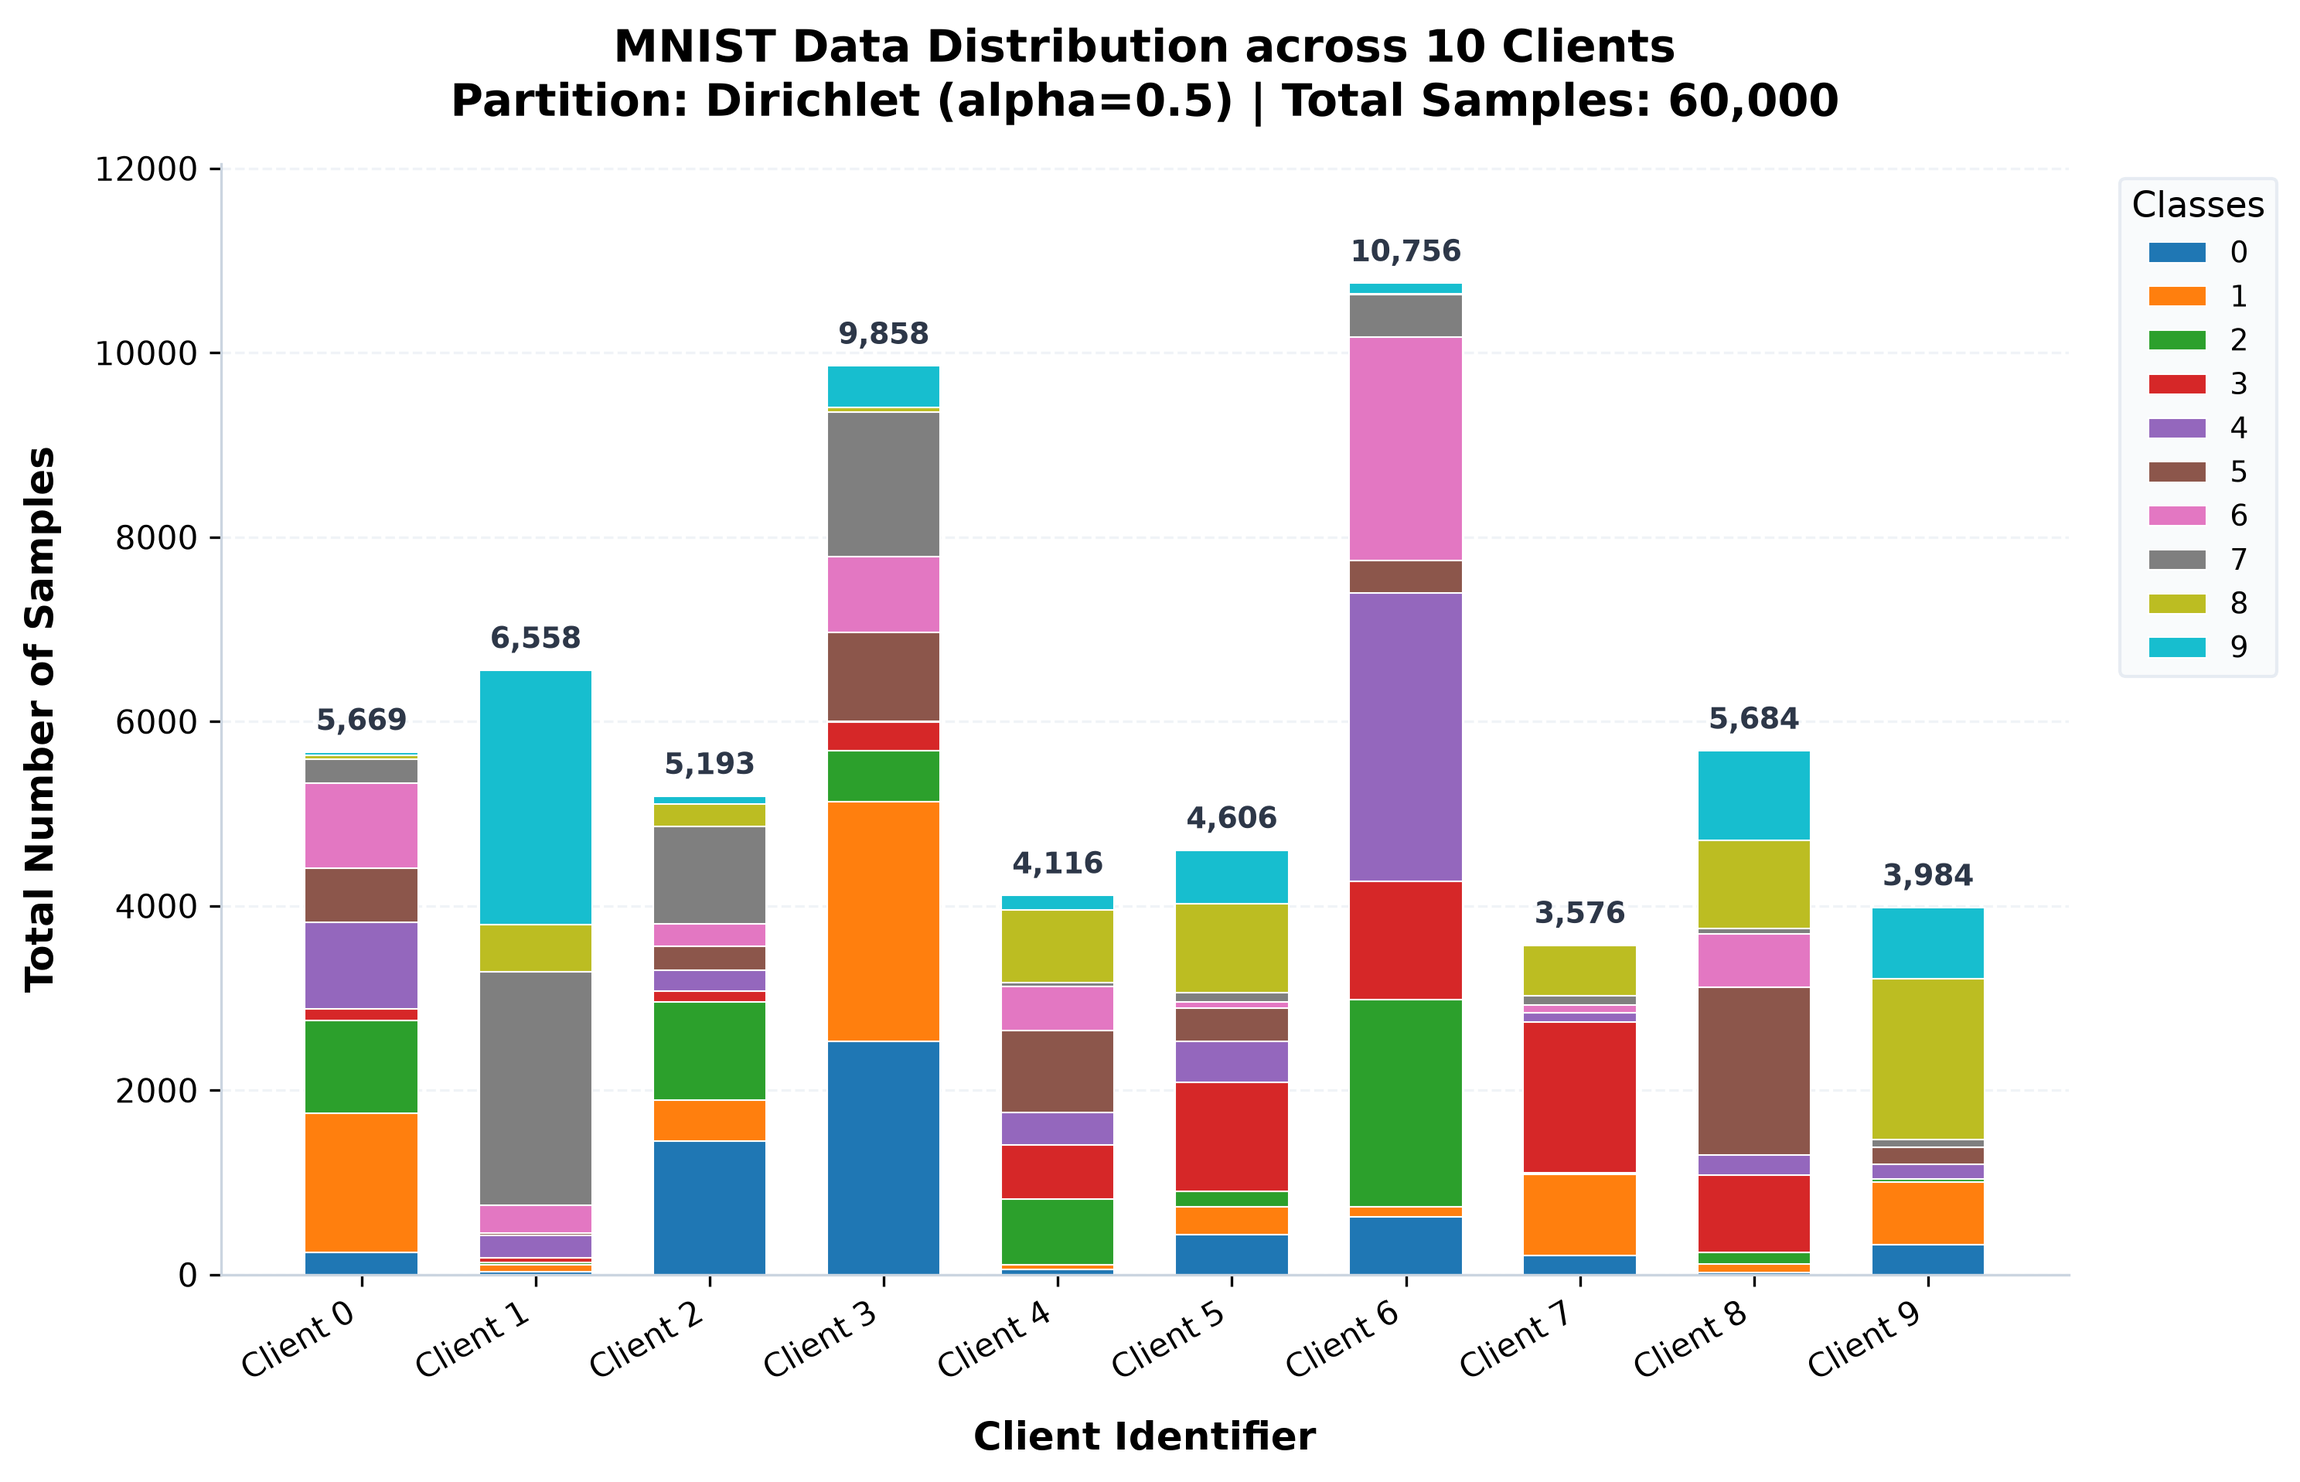
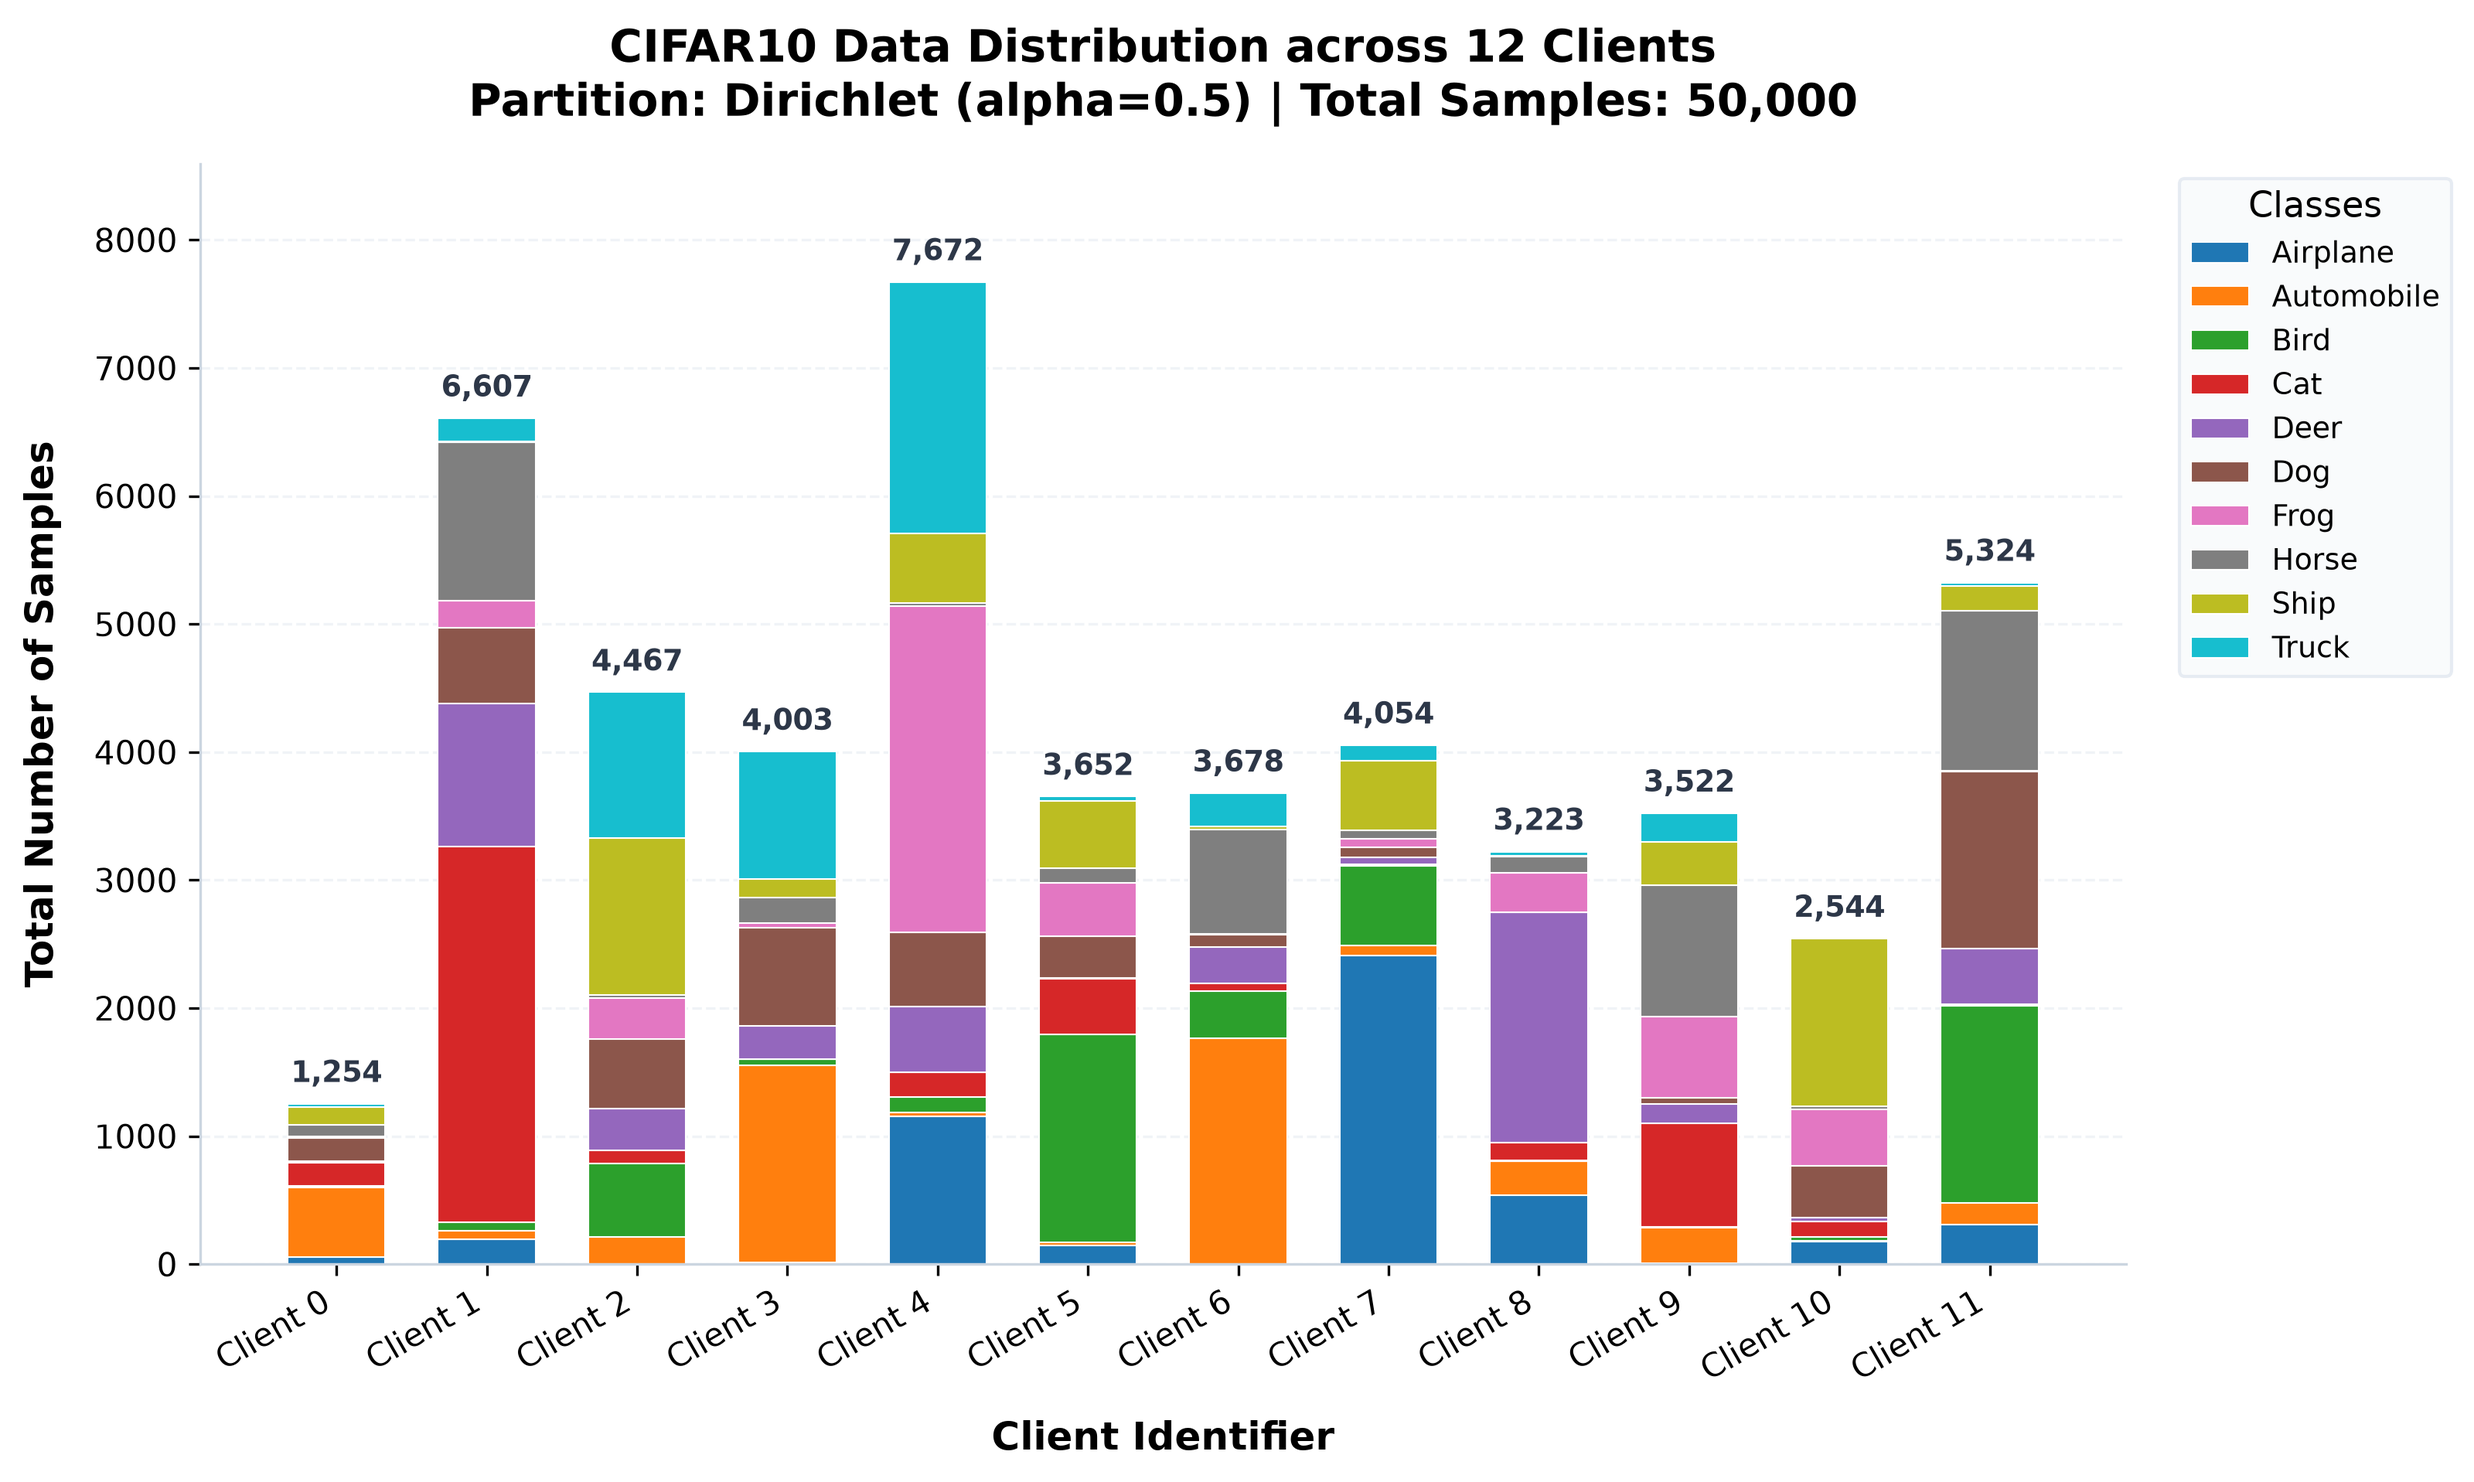
docs: add COMMANDS.md command reference guide and update documentation

diff --git a/COMMANDS.md b/COMMANDS.md
@@ -1,0 +1,140 @@
+# Federated Learning Lab - Command Reference Guide (`COMMANDS.md`)
+
+This guide provides a centralized reference for running, orchestrating, and visualizing federated learning experiments in this repository.
+
+---
+
+## 1. Automated Multi-Terminal Deployment (Recommended)
+
+Spawns the central coordinator server and all client nodes into their own live terminal windows, and automatically generates the dataset distribution chart.
+
+```powershell
+# Launch server and clients using settings from configs/server.yaml and configs/client.yaml
+python launch_terminals.py
+
+# PowerShell shortcut equivalent
+.\launch_terminals.ps1
+```
+
+### Useful CLI Overrides
+```powershell
+# Override number of clients (e.g., 5 clients)
+python launch_terminals.py --clients 5
+
+# Override number of training rounds and server port
+python launch_terminals.py --rounds 5 --port 50055
+
+# Preview generated commands without opening terminal windows
+python launch_terminals.py --dry-run
+
+# Launch terminals without regenerating the data distribution plot
+python launch_terminals.py --no-plot
+```
+
+---
+
+## 2. Dataset Distribution Visualizer
+
+Generates a stacked bar chart displaying sample volumes (**Quantity Skew**) and color-coded class proportions (**Label Skew**) across all participating clients.
+
+```powershell
+# Generate and save chart to reports/data_distribution.png (reads configs/server.yaml)
+python plot_distribution.py
+
+# Display chart in an interactive pop-up window
+python plot_distribution.py --interactive
+
+# Visualize different benchmark datasets or partitioning strategies
+python plot_distribution.py --dataset mnist --partition dirichlet --alpha 0.1
+python plot_distribution.py --dataset cifar10 --partition pathological
+python plot_distribution.py --dataset fashion_mnist --partition iid
+
+# Save to a custom output path
+python plot_distribution.py --output figures/cifar10_dirichlet_skew.png
+```
+
+---
+
+## 3. Manual Terminal Execution (Step-by-Step)
+
+If you prefer to start each component in individual command line tabs or on separate machines over a network:
+
+### Step 1: Start Central Server (Terminal 1)
+```powershell
+python run_server.py --config configs/server.yaml
+```
+*Options:*
+- `--port 50051`: Listening port
+- `--clients 10`: Number of registered clients required before triggering rounds
+- `--rounds 3`: Number of training rounds
+- `--epochs 1`: Local client epochs per round
+
+### Step 2: Start Client Nodes (Terminals 2, 3, ...)
+```powershell
+# Start Client 0
+python run_client.py --id 0 --server 127.0.0.1:50051
+
+# Start Client 1
+python run_client.py --id 1 --server 127.0.0.1:50051
+
+# Start Client N
+python run_client.py --id <N> --server 127.0.0.1:50051
+```
+
+---
+
+## 4. Single-Process Simulation Orchestrator
+
+Runs the server and all client nodes asynchronously inside a single terminal process (useful for automated benchmarks and CI pipelines):
+
+```powershell
+# Standard simulation using settings from configs/
+python run_simulation.py --clients 10 --rounds 3 --epochs 1
+
+# Fast verification using synthetic in-memory tensors (skips dataset download)
+python run_simulation.py --synthetic --clients 3 --rounds 2
+```
+
+---
+
+## 5. Configuration Files
+
+All runtime behaviors are config-driven via YAML:
+
+- **`configs/server.yaml`**: Server IP, port, required client count, and rounds:
+  ```yaml
+  host: "127.0.0.1"
+  port: 50051
+  num_clients: 10
+  rounds: 3
+  epochs_per_round: 1
+  ```
+- **`configs/client.yaml`**: Dataset partition type, Dirichlet $lpha$, learning rate, batch size, and optimizer:
+  ```yaml
+  server_address: "127.0.0.1:50051"
+  dataset:
+    name: "cifar10"
+    partition: "dirichlet"
+    alpha: 0.5
+    batch_size: 32
+  ```
+
+---
+
+## 6. Testing & Quality Assurance
+
+Run the test suite to verify gRPC communication, FedAvg aggregation, and launcher scripts:
+
+```powershell
+# Run full test suite
+pytest
+
+# Run tests quietly with summary
+pytest -q
+
+# Test individual components
+pytest tests/test_launch_terminals.py
+pytest tests/test_plotting.py
+pytest tests/test_grpc_integration.py
+pytest tests/test_aggregation.py
+```

diff --git a/README.md b/README.md
@@ -46,7 +46,19 @@ source .venv/bin/activate
 
 # Install dependencies
 pip install -r requirements.txt
-```
+`
+
+### 2. Command Reference Guide
+For the full guide of CLI commands, multi-terminal orchestration, and data visualizers, see [COMMANDS.md](COMMANDS.md).
+
+`ash
+# Launch server + client terminals with automatic distribution chart:
+python launch_terminals.py
+
+# Visualize client data distribution (stacked bar chart):
+python plot_distribution.py
+`
+``
 
 ---
 
